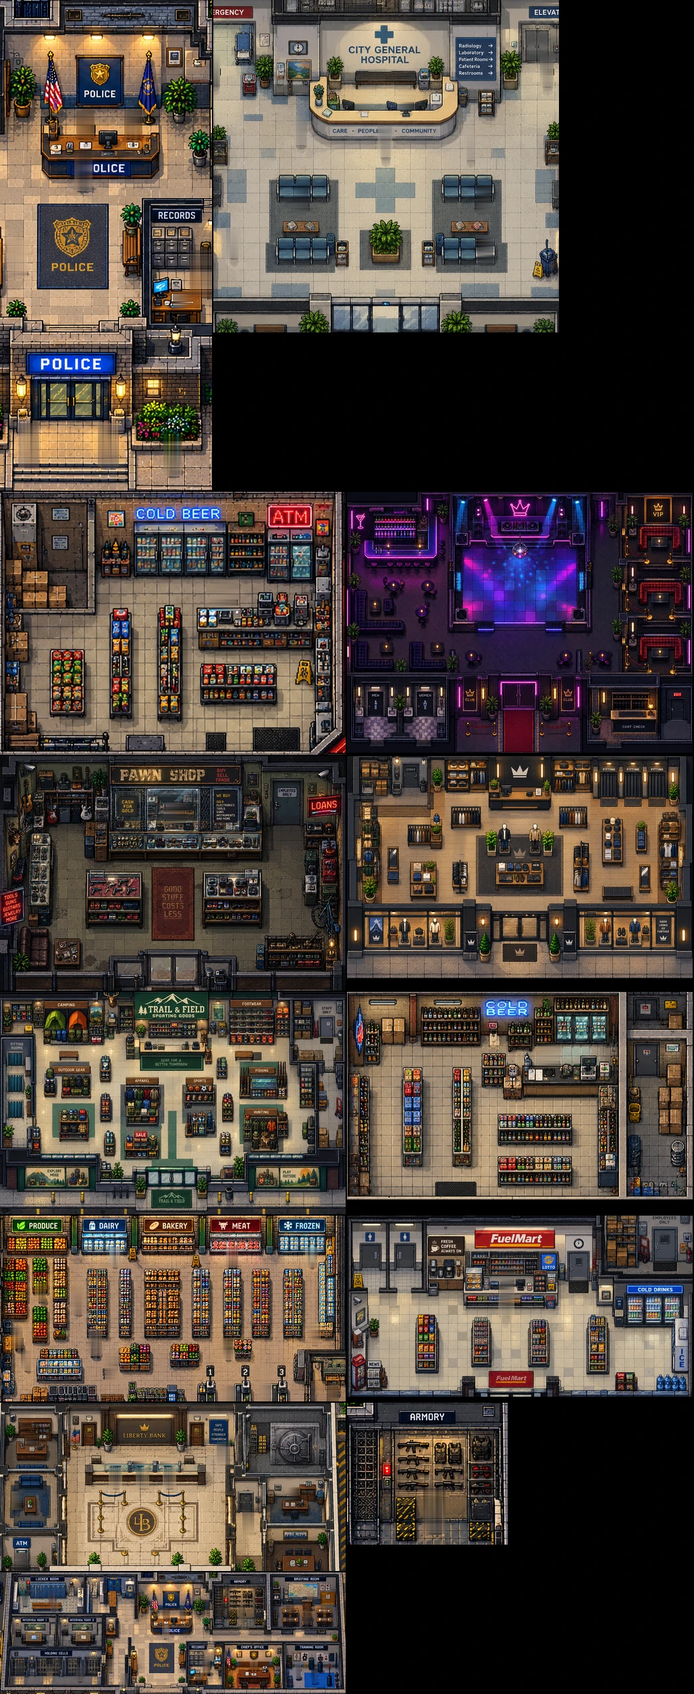
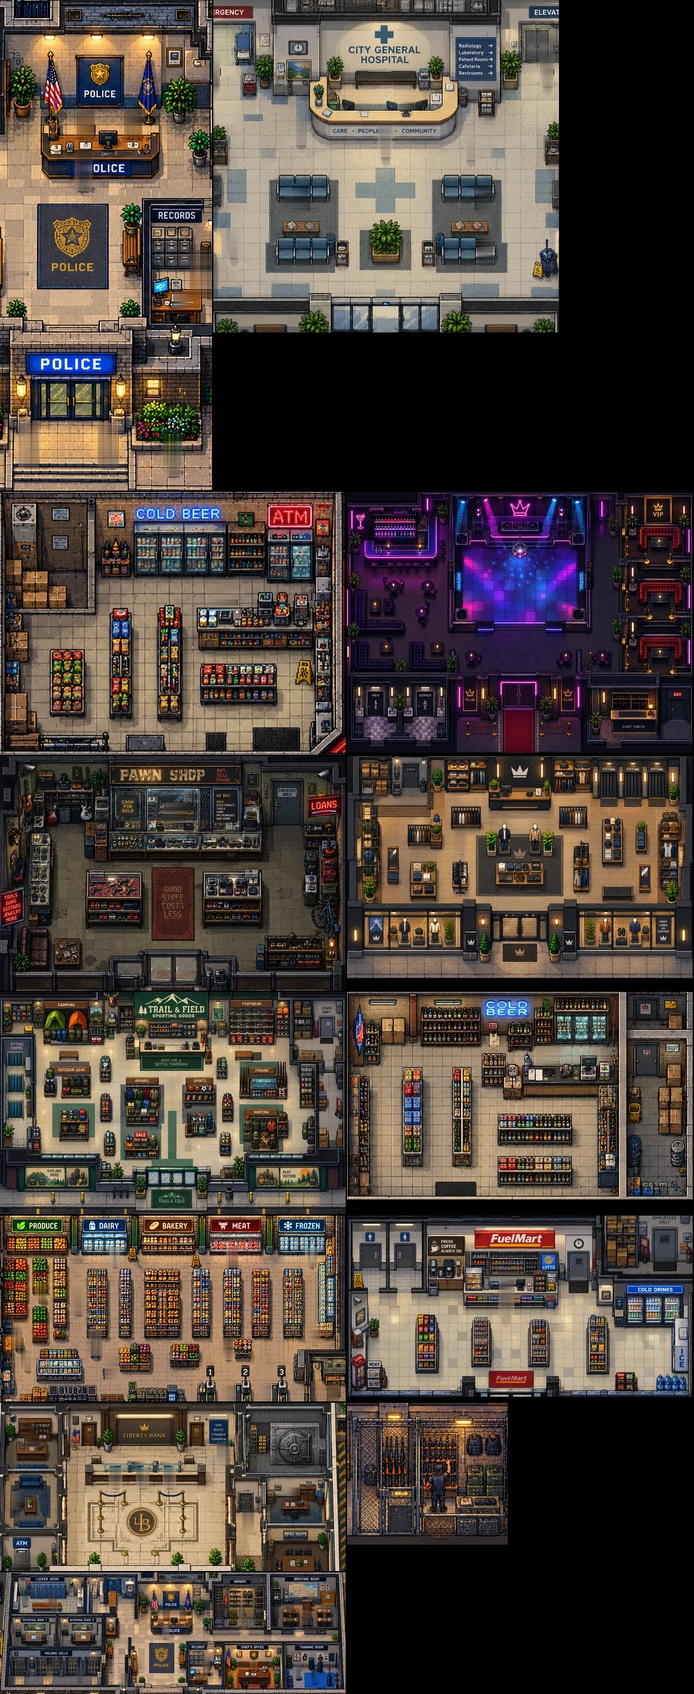
The hospital, the police station and the subway entrance built to the owner's B takes (IN1-B, IN2-B, SU5-B): lobbies with their desks, chairs, fittings and the armory cage; the ambulance bay canopy; the subway kiosk with its railings, globes, lit train sign and stairs going down; big walk-ins open a
Claude-Session: https://claude.ai/code/session_015TdwbASoLBxZr1VoEZGToX

Changed region(s): [[0.4981, 0.8089, 0.7471, 0.9334]]

diff --git a/client/art2/game/statics.js b/client/art2/game/statics.js
@@ -1245,6 +1245,8 @@ function voxModel(m, a) {
     case 'runwayLight': return RD.runwayLight(a[0]); case 'viewer': return D.viewer(); case 'wheelbarrow': return U.wheelbarrow(); case 'airliner': return RD.airliner(a[0], a[1], a[2], a[3] || 0);
     case 'lighthouse': return WL.lighthouse(a[0], a[1]); case 'pillar': return RD.pillar(a[0], a[1], a[2]); case 'canopy': return U.fuelCanopy(a[0], a[1], a[2], a[3]); case 'fuelPump': return U.fuelPump(a[0], a[1]);
     case 'platformCanopy': return RD.platformCanopy(a[0], a[1], a[2]); case 'stationEntrance': return RD.stationEntrance(a[0], a[1]); case 'crossingSignal': return RD.crossingSignal(a[0], a[1]);
+    case 'subwayKiosk': return RD.subwayKiosk(a[0], a[1]);   // (SU5-B: a subway stop's street entrance on its kiosk's footprint)
+    case 'erCanopy': return RD.erCanopy(a[0]);   // (IN1-B: the hospital's ambulance bay)
     case 'controlTower': return RD.controlTower(a[0], a[1]); case 'fence': return D.fence(a[0], a[1], a[2] || {}); case 'fenceKind': return K.fenceKind(a[0], a[1]); case 'gatePillar': return D.gatePillar(a[0], a[1]);
     case 'compoundWall': return TW.compoundWall(a[0], a[1], a[2]); case 'guardTower': return TW.guardTower(a[0], a[1]); case 'hedge': return P.hedge(a[0], a[1]); case 'volleyNet': return P.volleyNet(a[0]);
     case 'soccerGoal': return PK.soccerGoal(a[0], a[1], a[2]); case 'terrace': return U.terrace(a[0], a[1], a[2], a[3]); case 'hayBale': return U.hayBale(a[0]); case 'scarecrow': return U.scarecrow();
@@ -1304,6 +1306,7 @@ function vdim(m, a) {
     case 'solar': return [a[0] || 30, a[1] || 20, 8]; case 'runwayLight': return [4, 4, 6]; case 'viewer': return [14, 10, 40]; case 'wheelbarrow': return [30, 14, 14]; case 'airliner': return [a[0] || 460, a[1] || 420, 140];
     case 'lighthouse': return [48, 48, (a[0] || 140) + 36]; case 'pillar': return [(a[1] || 30) + 4, a[2] || 90, a[0] || 90]; case 'canopy': return [a[0] || 150, a[1] || 80, (a[2] || 52) + 10]; case 'fuelPump': return [12, 10, 34];
     case 'platformCanopy': return [a[0] || 200, a[1] || 40, 62]; case 'stationEntrance': return [70, 44, 54]; case 'crossingSignal': return [24, 8, 70]; case 'controlTower': return [70, 70, (a[0] || 220) + 50];
+    case 'subwayKiosk': return [128, 96, 64]; case 'erCanopy': return [120, 62, 60];
     case 'fence': return [a[1] || 60, 6, ({ picket: 16, wood: 30, chain: 32, iron: 28, stone: 12 }[a[0]] || 20) + 6]; case 'fenceKind': return [a[1] || 60, 6, 26]; case 'gatePillar': return [14, 14, (a[1] || 36) + 16];
     case 'compoundWall': return [a[0] || 80, 10, (a[1] || 40) + 8]; case 'guardTower': return [40, 40, (a[0] || 70) + 40]; case 'hedge': return [a[0] || 40, 10, (a[1] || 12) + 3]; case 'volleyNet': return [a[0] || 70, 4, 26];
     case 'soccerGoal': return [a[2] || 18, a[0] || 60, a[1] || 32]; case 'terrace': return [a[0] || 300, a[1] || 60, a[2] || 40]; case 'hayBale': return [24, 16, 16]; case 'scarecrow': return [30, 8, 56];
@@ -2297,7 +2300,16 @@ function addRail(c, I) {
   if (!R || !R.pts) return;
   for (const st of R.stations || []) {
     if (st.under) {
-      const p = st.kiosk ? { x: st.kiosk.x0 + st.kiosk.w / 2, y: st.kiosk.y0 + st.kiosk.h - 6 } : st.platform;
+      const k = st.kiosk;
+      if (k) {   // (SU5-B: the stairs down inside green iron railings, globe lamps and the lit train sign along the back)
+        const lx = (x) => (k.flip ? k.x0 + k.w - x : k.x0 + x);
+        put(I, vitem('sk:' + (k.flip ? 1 : 0), 'subwayKiosk', [1, k.flip ? 1 : 0], k.x0 + 64, k.y0 + 48, 0));
+        for (const x of [8, 120]) lightAt(I, lx(x), k.y0 + 16, 54, 110, [1, 0.86, 0.6], 1.6, 'lamp');
+        lightAt(I, lx(64), k.y0 + 20, 34, 70, [0.7, 0.85, 1], 1.1, 'sign');
+        lightAt(I, lx(104), k.y0 + 62, 6, 60, [1, 0.85, 0.6], 1.2, 'sign');
+        continue;
+      }
+      const p = st.platform;
       if (!p) continue;
       put(I, vitem('ent', 'stationEntrance', [1, '#f28c28'], p.x, p.y, 0));
       lightAt(I, p.x, p.y + 10, 50, 120, [1, 0.85, 0.6], 1.4, 'sign');
@@ -2627,7 +2639,7 @@ function addLots(c, I) {
       return;
     }
     if (key === 'church') { for (const dx of [24, w - 24]) put(I, fitem(`f:cypress:${dx > w / 2 ? 1 : 0}:1.2`, 'cypress', 1000 + (dx > w / 2 ? 1 : 0) * 37 + 49, x0 + dx, y0 + h - 30, 1.2)); fenceLine(I, 'iron', x0 + 8, y0 + h - 6, x0 + w / 2 - 30, y0 + h - 6); fenceLine(I, 'iron', x0 + w / 2 + 30, y0 + h - 6, x0 + w - 8, y0 + h - 6); return; }
-    if (key === 'hospital') { put(I, vitem('hcan', 'canopy', [110, 50, 50, 1], x0 + w / 2, by1 + 30, 0)); return; }
+    if (key === 'hospital') { put(I, vitem('hcan:er', 'erCanopy', [1], x0 + w / 2, by1 + 30, 0)); lightAt(I, x0 + w / 2, by1 + 34, 46, 130, [1, 0.92, 0.82], 1.4, 'lamp'); return; }   // (IN1-B: the ambulance bay's canopy)
     if (key === 'pool') {
       const pw = w - 5 * TILE - 40, ph = h - 70;
       if (pw > 60) { put(I, { key: `pool:${pw}:${ph}:0`, recipe: { t: 'flat', k: 'pool', w: pw, h: ph, s: 0 }, x: x0 + 5 * TILE + 20 + pw / 2, y: y0 + 30 + ph / 2, ext: [pw / 2 + 2, ph / 2 + 4, pw / 2 + 2, ph / 2 + 2] }); for (let k = 0; k < 4; k++) put(I, vitem('loung', 'lounger', ['#f0eee8'], x0 + 5 * TILE + 40 + k * 44, y0 + h - 18, 0)); }
@@ -2887,12 +2899,13 @@ function cutRecipe(c, b, s, spec) {
     if (ux1 < ux0) continue;
     const blk = u.cells !== undefined && c.M.cellBlocks ? c.M.cellBlocks[u.cells] : null, ox = s.tx * TILE, oy = s.ty * TILE;   // (a police station's cells: shared/cells.js)
     const cells = blk ? { bars: blk.bars.map((q) => [q[0] - ox, q[1] - oy, q[2] - ox, q[3] - oy]), cells: blk.cells.map((q) => ({ door: [q.door.x - ox, q.door.y - oy], bench: [q.bench.x - ox, q.bench.y - oy], toilet: [q.toilet.x - ox, q.toilet.y - oy] })), dir: blk.south ? 1 : -1, back: (blk.south ? blk.y0 : blk.y1) - oy } : null;
-    units.push({ x0: (ux0 - s.tx) * TILE, x1: (ux1 - s.tx + 1) * TILE, cy: (u.counterRow - s.ty) * TILE, kind: u.kind, dx: (u.door.tx - s.tx) * TILE, dw: (u.door.w || 2) * TILE, cells });
+    units.push({ x0: (ux0 - s.tx) * TILE, x1: (ux1 - s.tx + 1) * TILE, fx0: (u.x0 - s.tx) * TILE, fx1: (u.x1 - s.tx + 1) * TILE, cy: (u.counterRow - s.ty) * TILE, kind: u.kind, dx: (u.door.tx - s.tx) * TILE, dw: (u.door.w || 2) * TILE, cells });
   }
   // a wing with no room you walk into (a hospital's wards): its floor all across, walls cut low round it
   const inY0 = Math.max(32, Math.min(Dd - 64, (wi.y0 - s.ty) * TILE)), inY1 = Math.max(inY0 + 32, Math.min(Dd - 32, (wi.y1 - s.ty + 1) * TILE));
   const wing = units.length ? null : FLOORK[(wi.units[0] || {}).kind] || 'tileWhite';
-  return { t: 'cut', w: W, d: Dd, H: Math.min(buildingH(spec), 120), wall: spec.style || 'stucco', wallColor: spec.wallColor || null, seed: spec.seed, units, inY0: wing ? inY0 : (wi.y0 - s.ty) * TILE, inY1: wing ? inY1 : (wi.y1 - s.ty + 1) * TILE, wing };
+  // (ew / ee: the section has the building's west / east wall - a big walk-in is drawn in sections, open to each other)
+  return { t: 'cut', w: W, d: Dd, H: Math.min(buildingH(spec), 120), wall: spec.style || 'stucco', wallColor: spec.wallColor || null, seed: spec.seed, units, inY0: wing ? inY0 : (wi.y0 - s.ty) * TILE, inY1: wing ? inY1 : (wi.y1 - s.ty + 1) * TILE, wing, ew: s.tx <= b.tx, ee: s.tx + s.tw >= b.tx + b.tw };
 }
 function makeCut(r) {
   const { w, d, H } = r, CUT = 18, G = new GBuf(w, d + H + 8); G.ax = 0; G.ay = d + H + 8;
@@ -2902,29 +2915,33 @@ function makeCut(r) {
   const px = (x, Y, z, c, n, f = 0) => zw(G, x, gy(Y, z), c, n, z, f);
   // floor (a wing's all across it)
   for (const u of r.units) {
-    const fk = FLOORK[u.kind] || 'woodFloor';
-    for (let Y = r.inY0; Y < r.inY1; Y++) for (let x = u.x0; x < u.x1; x++) px(x, Y, 0, groundPixel(fk, x + r.seed, Y, 3).c, [0, 0, 1], F_GROUND);
+    const fk = FLOORK[u.kind] || 'woodFloor', lob = LOBBY[u.kind];
+    for (let Y = r.inY0; Y < r.inY1; Y++) for (let x = u.x0; x < u.x1; x++) px(x, Y, 0, lob ? lob.floor(x + r.seed, Y) : groundPixel(fk, x + r.seed, Y, 3).c, [0, 0, 1], F_GROUND);
   }
   if (r.wing) for (let Y = r.inY0; Y < r.inY1; Y++) for (let x = 0; x < w; x++) px(x, Y, 0, groundPixel(r.wing, x + r.seed, Y, 3).c, [0, 0, 1], F_GROUND);
   // the back wall: full height, its face toward the camera, its top a cap
   for (let x = 0; x < w; x++) {
-    for (let v = 0; v < H; v++) px(x, r.inY0, v, wallAt(x, v), [0, 1, 0]);
+    const lu = r.units.find((u) => LOBBY[u.kind] && x >= u.x0 && x < u.x1);   // (IN1-B / IN2-B: the lobby's own wall)
+    for (let v = 0; v < H; v++) px(x, r.inY0, v, lu ? LOBBY[lu.kind].wall(x, v) : wallAt(x, v), [0, 1, 0]);
     for (let Y = 0; Y < r.inY0; Y++) px(x, Y, H, CAP[Y === 0 ? 4 : 2], [0, 0, 1]);
   }
   // side walls and unit dividers cut low (caps), the front wall cut low with the doorways open
   const capRun = (xa, xb, Ya, Yb) => { for (let Y = Ya; Y < Yb; Y++) for (let x = xa; x < xb; x++) px(x, Y, CUT, CAP[x === xa || x === xb - 1 ? 3 : 2], [0, 0, 1]); for (let x = xa; x < xb; x++) for (let v = 0; v < CUT; v++) px(x, Yb, v, wallAt(x + 400, v), [0, 1, 0]); };
-  capRun(0, 32, r.inY0, d); capRun(w - 32, w, r.inY0, d);
+  if (r.ew !== false) capRun(0, 32, r.inY0, d);
+  if (r.ee !== false) capRun(w - 32, w, r.inY0, d);
   for (let i = 1; i < r.units.length; i++) { const x = r.units[i].x0 - 4; capRun(x, x + 8, r.inY0, r.inY1); }
-  for (let x = 32; x < w - 32; x++) {
+  for (let x = r.ew === false ? 0 : 32; x < (r.ee === false ? w : w - 32); x++) {
     if (r.units.some((u) => x >= u.dx && x < u.dx + u.dw)) continue;
     for (let Y = r.inY1; Y < d; Y++) px(x, Y, CUT, CAP[2], [0, 0, 1]);
     for (let v = 0; v < CUT; v++) px(x, d, v, wallAt(x + 800, v), [0, 1, 0]);
   }
   // counters, back shelves with goods, a clerk's till
   for (const u of r.units) {
+    if (LOBBY[u.kind]) { lobbyRoom(u, r, px); if (u.cells) cellRoom(u.cells, px); continue; }   // (IN1-B hospital / IN2-B police: their own desk and dressing)
     const CT = u.kind === 'coffee' || u.kind === 'club' || u.kind === 'fence' || u.kind === 'roadhouse' ? ramp('#6a4a30', 6, 3) : ramp('#d8d4cc', 6, 3), TOPC = u.kind === 'club' ? ramp('#2a2a34', 5, 2) : u.kind === 'roadhouse' ? ramp('#4a3020', 5, 2) : ramp('#a8aab0', 5, 2);
-    for (let Y = u.cy + 6; Y < u.cy + 26; Y++) for (let x = u.x0 + 6; x < u.x1 - (u.x1 - u.x0 > 128 ? 34 : 6); x++) px(x, Y, 22, TOPC[Y === u.cy + 6 ? 4 : 2], [0, 0, 1]);
-    for (let x = u.x0 + 6; x < u.x1 - (u.x1 - u.x0 > 128 ? 34 : 6); x++) for (let v = 0; v < 22; v++) px(x, u.cy + 26, v, CT[v > 18 ? 4 : 2 + ((x >> 3) & 1)], [0, 1, 0]);
+    const ca = u.x0 > u.fx0 ? u.x0 : u.x0 + 6, cb = u.x1 < u.fx1 ? u.x1 : u.x1 - (u.fx1 - u.fx0 > 128 ? 34 : 6);   // (the counter runs on across a section's open side)
+    for (let Y = u.cy + 6; Y < u.cy + 26; Y++) for (let x = ca; x < cb; x++) px(x, Y, 22, TOPC[Y === u.cy + 6 ? 4 : 2], [0, 0, 1]);
+    for (let x = ca; x < cb; x++) for (let v = 0; v < 22; v++) px(x, u.cy + 26, v, CT[v > 18 ? 4 : 2 + ((x >> 3) & 1)], [0, 1, 0]);
     if (u.cells) { cellRoom(u.cells, px); continue; }   // (the cells along the back: no shelves)
     const goods = [[204, 72, 64], [236, 200, 80], [76, 146, 204], [116, 180, 100], [226, 224, 214], [170, 100, 200]];
     for (let x = u.x0 + 4; x < u.x1 - 4; x++) for (let v = 0; v < 52; v++) { const sh = v % 13; px(x, r.inY0 + 10, v, sh < 2 ? MAT.metalDark[2] : goods[Math.floor(hash(x >> 1, v / 13 | 0, r.seed + u.x0) * goods.length)], [0, 1, 0]); }
@@ -2972,6 +2989,136 @@ function cellRoom(k, px0_) {
     for (const s of [-17, -16, 16, 17]) for (let v = 0; v < H + 2; v++) px(dx + s, dy, v, BAR[s < 0 ? 1 : 3], [0, 1, 0]);
     for (let x = dx + 10; x < dx + 15; x++) for (let v = 14; v < 22; v++) px(x, dy, v, v === 14 || v === 21 ? [60, 58, 50] : [150, 140, 96], [0, 1, 0]);
   }
+}
+// ---- the hospital's and the police station's lobbies, built to IN1-B and IN2-B (the owner's picks, 2026-10-10): the
+// floor and the back wall in their own materials, the desk, and the fittings - all art over the server's layout (the
+// counter row, the doorway, the cells stay where shared/map.js and shared/cells.js put them)
+const LOBBY = {
+  hospital: {   // white tile with a soft sheen; white wall tile with a blue band and a dark skirting
+    floor: (x, Y) => {
+      if ((x & 15) === 0 || (Y & 15) === 0) return [198, 202, 206];
+      const b = 226 + ((hash(x >> 4, Y >> 4, 77) * 7) | 0), s = Math.max(0, Math.cos((x * 0.7 + Y) / 38) - 0.55) * 22;
+      return [Math.min(255, b + s), Math.min(255, b + 2 + s), Math.min(255, b + 3 + s)];
+    },
+    wall: (x, v) => (v < 3 ? [92, 106, 128] : v >= 18 && v < 23 ? [58, 106, 168] : v === 17 || v === 23 ? [206, 214, 222] : (x % 8 === 0 || v % 8 === 0) ? [204, 208, 210] : [234 + ((hash(x >> 3, v >> 3, 78) * 5) | 0), 236, 234]),
+  },
+  police: {     // pale stone tile in the lobby; grey block walls round the cells
+    floor: (x, Y) => {
+      if ((x & 15) === 0 || (Y & 15) === 0) return [164, 156, 140];
+      const b = (hash(x >> 4, Y >> 4, 79) * 12) | 0;
+      return [192 + b, 184 + b, 166 + b];
+    },
+    wall: (x, v) => (v < 3 ? [70, 72, 78] : (v % 8 === 0 || (x + ((v >> 3) & 1) * 8) % 16 === 0) ? [116, 116, 114] : [150 + ((hash(x >> 4, v >> 3, 80) * 8) | 0), 150, 146]),
+  },
+};
+function lobbyRoom(u, r, px0_) {
+  const px = (x, Y, z, c, n) => px0_(Math.round(x), Math.round(Y), z, c, n);
+  const slab = (x0, x1, Y0, Y1, z, top, side, z0 = 0) => {
+    x0 = Math.round(x0); x1 = Math.round(x1); Y0 = Math.round(Y0); Y1 = Math.round(Y1);
+    for (let Y = Y0; Y < Y1; Y++) for (let x = x0; x < x1; x++) px(x, Y, z, top[Y === Y0 || x === x0 || x === x1 - 1 ? 4 : 2], [0, 0, 1]);
+    for (let x = x0; x < x1; x++) for (let v = z0; v < z; v++) px(x, Y1, v, side[v > z - 3 ? 3 : 1 + ((x - x0) % 6 === 0 ? 0 : 1)], [0, 1, 0]);
+  };
+  const onWall = (x0, x1, v0, v1, f) => { for (let x = Math.round(x0); x < Math.round(x1); x++) for (let v = v0; v < v1; v++) { const c = f(x - Math.round(x0), v - v0, x1 - x0, v1 - v0); if (c) px(x, r.inY0, v, c, [0, 1, 0]); } };
+  const plant = (x, Y, big = 1) => {   // a terracotta pot, a leafy top
+    slab(x - 5 * big, x + 5 * big, Y - 4, Y + 4, 9, ramp('#b0603c', 5, 2), ramp('#9a5030', 5, 2));
+    for (let k = 0; k < 140 * big; k++) { const a = hash(k, x, 81) * 6.283, d = Math.sqrt(hash(k, Y, 82)) * 8 * big, z = 9 + hash(k, 3, 83) * 15 * big * (1 - d / (10 * big)); px(x + Math.cos(a) * d, Y - 2 + Math.sin(a) * d * 0.6, Math.round(z), [[52, 120, 58], [78, 156, 70], [40, 96, 48], [100, 176, 84]][k & 3], [Math.cos(a) * 0.5, -0.4, 0.75]); }
+  };
+  const chairs = (x0, n, Y, col = '#3a62a8') => {   // a row of linked waiting chairs facing the desk (backs to the door)
+    const seat = ramp(col, 5, 2), back = ramp(col, 5, 1), leg = ramp('#7a7e86', 5, 2);
+    for (let i = 0; i < n; i++) { const x = x0 + i * 13; slab(x, x + 11, Y, Y + 10, 9, seat, leg); slab(x, x + 11, Y + 10, Y + 13, 19, back, back, 9); }
+    slab(x0 - 2, x0 + n * 13, Y + 4, Y + 6, 5, leg, leg);
+  };
+  const cooler = (x, Y) => { slab(x, x + 10, Y, Y + 8, 22, ramp('#e2e4e6', 5, 3), ramp('#c8ccd2', 5, 3)); for (let v = 22; v < 31; v++) for (let xx = x + 2; xx < x + 8; xx++) px(xx, Y + 4, v, v > 28 ? [60, 110, 190] : [110, 170, 230], [0, 1, 0]); };
+  const mat = (cx, Y, w = 40, h = 14) => { for (let yy = Y; yy < Y + h; yy++) for (let x = cx - w / 2; x < cx + w / 2; x++) px(x, yy, 1, (x + yy) % 3 ? [58, 66, 80] : [70, 78, 92], [0, 0, 1]); };
+  // laid out over the whole unit (a big one is drawn in sections: each draws its share, the rest falls off its edges)
+  const X0 = u.fx0, X1u = u.fx1, W = X1u - X0, dc = u.dx + u.dw / 2, gapR = X1u - (W > 128 ? 34 : 6), fy = r.inY1;
+  const lo = X0 + 6;
+  if (u.kind === 'hospital') {
+    // the back wall: the vending machine and the water cooler, the red double doors to the back, the pharmacy window
+    // with its shelves under a green cross, the lifts
+    const at = (f) => X0 + Math.round(W * f);
+    onWall(at(0.47) - 24, at(0.47) + 24, 0, 58, (x, v, w) => (x < 2 || x >= w - 2 || v >= 54 ? [118, 122, 130] : Math.abs(x - w / 2) < 1 ? [90, 30, 30] : v > 36 && v < 46 && (x % 23 > 6 && x % 23 < 17) ? [160, 196, 214] : v > 22 && v < 25 ? [214, 214, 218] : [196 - (v & 1) * 6, 52, 48]));
+    onWall(at(0.47) - 8, at(0.47) + 8, 60, 66, (x, v) => (v === 0 || v === 5 ? [40, 44, 40] : [64, 200, 110]));
+    onWall(at(0.68) - 30, at(0.68) + 30, 14, 50, (x, v, w, h) => (x < 2 || x >= w - 2 || v < 2 || v >= h - 2 ? [120, 128, 136] : v % 11 < 2 ? [150, 156, 162] : [[204, 72, 64], [236, 200, 80], [76, 146, 204], [116, 180, 100], [236, 234, 228], [170, 120, 200]][(hash(x >> 1, v / 11 | 0, 84) * 6) | 0]));
+    onWall(at(0.68) - 5, at(0.68) + 5, 54, 64, (x, v) => ((x > 2 && x < 7) || (v > 2 && v < 7) ? [50, 170, 90] : [236, 240, 236]));
+    slab(at(0.68) - 32, at(0.68) + 32, r.inY0, r.inY0 + 8, 14, ramp('#e8e6e0', 5, 3), ramp('#b8bcc4', 5, 2));
+    for (const f of [0.86, 0.94]) if (at(f) + 18 < X1u - 8) {
+      onWall(at(f) - 15, at(f) + 15, 0, 56, (x, v, w) => (x < 2 || x >= w - 2 || v >= 52 ? [104, 110, 118] : Math.abs(x - w / 2) < 1 ? [120, 124, 132] : [176 + (x % 5 === 0 ? 8 : 0), 182, 190]));
+      onWall(at(f) - 3, at(f) + 3, 58, 61, () => [255, 190, 90]);
+    }
+    const vx = at(0.12), cx2 = at(0.2);
+    slab(vx, vx + 20, r.inY0, r.inY0 + 12, 46, ramp('#2a2e38', 5, 2), ramp('#3a3e4a', 5, 2));
+    for (let x = vx + 3; x < vx + 15; x++) for (let v = 16; v < 42; v++) px(x, r.inY0 + 12, v, v % 7 < 1 ? [40, 44, 52] : [[230, 80, 70], [240, 200, 80], [90, 170, 230], [120, 200, 110]][((x >> 2) + (v / 7 | 0)) & 3], [0, 1, 0]);
+    cooler(cx2, r.inY0 + 2);
+    plant(X0 + 16, r.inY0 + 14, 1.3); plant(at(0.36), r.inY0 + 12, 1.1); plant(X1u - 16, r.inY0 + 14, 1.3);
+    // the desk: a long white top over a wood front with a blue stripe, its middle curving out toward the lobby
+    const mid = (lo + gapR) / 2, half = (gapR - lo) / 2, bulge = (x) => Math.round(Math.max(0, Math.cos(Math.min(1, Math.abs(x - mid) / (half * 0.55)) * Math.PI / 2)) * 7);
+    const TOP = ramp('#ecebe6', 5, 3), WOOD = ramp('#a07650', 6, 3);
+    for (let x = lo; x < gapR; x++) {
+      const yf = u.cy + 26 + bulge(x);
+      for (let Y = u.cy + 6; Y < yf; Y++) px(x, Y, 22, TOP[Y === u.cy + 6 || Y === yf - 1 ? 4 : 2], [0, 0, 1]);
+      for (let v = 0; v < 22; v++) px(x, yf, v, v > 19 ? TOP[3] : v > 13 && v < 16 ? [58, 106, 168] : v < 2 ? [70, 52, 40] : (x - lo) % 32 === 0 ? WOOD[1] : WOOD[v > 8 ? 3 : 2], [0, 1, 0]);
+    }
+    for (const f of [0.38, 0.6]) { const x = lo + (gapR - lo) * f; slab(x, x + 9, u.cy + 9, u.cy + 12, 32, ramp('#2a2e36', 5, 2), ramp('#3a4a62', 5, 2), 22); }
+    for (let k = 0; k < 6; k++) px(lo + 20 + k * 3, u.cy + 14, 23, [244, 244, 240], [0, 0, 1]);
+    plant(lo + (gapR - lo) * 0.22, u.cy + 14, 0.7);
+    // the waiting area: rows of blue chairs either side of the aisle from the doors, plants, mats at the door and the desk
+    const Ya = u.cy + 70, Yb = fy - 44;
+    for (let Y = Yb - 13, row = 0; Y >= Ya && row < 3; Y -= 46, row++) for (const side of [-1, 1]) {
+      const room = side < 0 ? dc - 48 - (X0 + 40) : X1u - 40 - (dc + 48), n = Math.max(0, Math.min(5, Math.floor(room / 13)));
+      if (n >= 2) for (let g = 0; g < (room > 190 ? 2 : 1); g++) chairs(side < 0 ? dc - 48 - n * 13 - g * (n * 13 + 30) : dc + 48 + g * (n * 13 + 30), n, Y);
+    }
+    plant(dc - 36, fy - 30, 1.1); plant(dc + 36, fy - 30, 1.1); plant(X1u - 22, fy - 32, 1.3); plant(X0 + 22, fy - 32, 1.3);
+    mat(dc, fy - 44, 44, 16); mat(mid, u.cy + 44, 50, 12);
+    return;
+  }
+  // police: the front desk in wood with the officer's computer, the flag beside it; the clock, the notice board and the
+  // shield on the wall above the cells; blue chairs either side of the doors, a water cooler, plants; the armory cage
+  // in the officers' corner at the east end of the cells, rifles racked on its back wall, vests and ammo cases
+  const TOP = ramp('#8a6040', 5, 3), FRONT = ramp('#6a4a32', 6, 3);
+  for (let x = lo; x < gapR; x++) {
+    for (let Y = u.cy + 6; Y < u.cy + 26; Y++) px(x, Y, 22, TOP[Y === u.cy + 6 || Y === u.cy + 25 ? 4 : 2], [0, 0, 1]);
+    for (let v = 0; v < 22; v++) px(x, u.cy + 26, v, v > 19 ? TOP[4] : v < 2 ? [40, 30, 24] : (x - lo) % 24 === 0 ? FRONT[1] : FRONT[2 + (v > 10 ? 1 : 0)], [0, 1, 0]);
+  }
+  const mx = (lo + gapR) / 2;
+  slab(mx - 4, mx + 6, u.cy + 9, u.cy + 12, 32, ramp('#22262e', 5, 2), ramp('#3a4a66', 5, 2), 22);
+  slab(mx + 12, mx + 22, u.cy + 12, u.cy + 18, 25, ramp('#d8d6d0', 5, 3), ramp('#b8b6b0', 5, 2), 22);
+  for (let k = 0; k < 5; k++) px(mx - 20 + k * 3, u.cy + 15, 23, [240, 238, 230], [0, 0, 1]);
+  plant(lo + 18, u.cy + 14, 0.6);
+  // the flag on its stand, past the desk's west end
+  const fx = Math.max(X0 + 14, lo - 2), fY = u.cy + 40;
+  for (let v = 0; v < 52; v++) px(fx, fY, v, v > 49 ? [230, 200, 90] : [200, 176, 96], [1, 0, 0]);
+  slab(fx - 3, fx + 4, fY - 2, fY + 2, 2, ramp('#c8a860', 5, 3), ramp('#a88840', 5, 2));
+  for (let x = fx + 1; x < fx + 17; x++) for (let v = 30; v < 48; v++) px(x, fY, v, x < fx + 8 && v > 39 ? ((x + v) % 3 ? [40, 60, 140] : [230, 230, 236]) : ((v >> 1) & 1) ? [200, 40, 44] : [236, 234, 228], [0, 1, 0]);
+  // the wall above the cells: the notice board, the clock, the shield
+  const k = u.cells, wx = (f) => X0 + Math.round(W * f);
+  if (!k || k.dir > 0) {
+    onWall(wx(0.3) - 26, wx(0.3) + 26, 42, 62, (x, v, w, h) => (x < 2 || x >= w - 2 || v < 2 || v >= h - 2 ? [96, 70, 44] : (hash(x >> 3, v >> 2, 85) > 0.55 ? [[240, 238, 228], [250, 236, 160], [200, 222, 240]][(x >> 3) % 3] : [176, 130, 86])));
+    onWall(wx(0.52) - 7, wx(0.52) + 7, 46, 60, (x, v) => { const d = Math.hypot(x - 6.5, v - 6.5); return d > 7 ? null : d > 5.6 ? [40, 40, 44] : (Math.abs(x - 6.5) < 0.8 && v >= 6 && v < 11) || (Math.abs(v - 6.5) < 0.8 && x >= 6 && x < 10) ? [30, 30, 34] : [240, 240, 232]; });
+    onWall(wx(0.7) - 7, wx(0.7) + 7, 44, 62, (x, v) => { const e = Math.abs(x - 6.5), top = v > 9 ? e < 6.5 : e < 6.5 - (9 - v) * 0.7; return !top ? null : e > 5 || v > 15 || v < 3 ? [214, 176, 70] : [40, 66, 140]; });
+  }
+  // the armory: the officers' corner east of the last cell - a mesh cage along the cells' bar line, a rack of rifles,
+  // vests and green ammo cases inside
+  if (k && k.dir > 0 && k.bars.length) {
+    const ex = Math.max(...k.bars.map((q) => Math.max(q[0], q[2]))), X1 = X1u - 8, yb = (k.bars.find((q) => q[1] === q[3]) || k.bars[0])[1];
+    if (X1 - ex > 40) {
+      onWall(ex + 6, X1 - 4, 8, 46, (x, v, w) => (v === 0 || v === 37 || v === 18 ? [70, 62, 52] : x % 7 === 3 && v > 2 && v < 17 ? [40, 40, 44] : x % 7 === 3 && v > 19 && v < 36 ? [44, 44, 48] : x % 7 === 4 && (v < 8 || (v > 20 && v < 26)) ? [110, 76, 44] : null));
+      for (let x = ex + 8; x < X1 - 12; x += 16) slab(x, x + 12, r.inY0 + 2, r.inY0 + 10, 9, ramp('#5a6a44', 5, 2), ramp('#4a5a38', 5, 2));
+      for (let x = ex + 10; x < X1 - 10; x += 22) onWall(x, x + 10, 24, 40, (xx, v) => (v > 12 && (xx < 3 || xx > 6) ? null : [30, 40, 62]));
+      for (let x = ex + 2; x < X1; x++) {
+        const post = (x - ex) % 24 === 2, door = x > X1 - 30 && x < X1 - 8;
+        for (let v = 0; v < 40; v++) if (post || v === 39 || v === 38 || (!door && (x + v) % 4 === 0) || (door && (x === X1 - 29 || x === X1 - 9 || v === 20))) px(x, yb, v, post || v > 37 ? [90, 94, 100] : [140, 146, 152], [0, 1, 0]);
+      }
+    }
+  }
+  // the lobby: chairs either side of the doors along the front wall, the water cooler, plants, the mat
+  const Ya = u.cy + 76, Yb = fy - 44;
+  for (let Y = Yb - 13, row = 0; Y >= Ya && row < 2; Y -= 50, row++) for (const side of [-1, 1]) {
+    const room = side < 0 ? dc - 44 - (X0 + 44) : X1u - 44 - (dc + 44), n = Math.max(0, Math.min(4, Math.floor(room / 13)));
+    if (n >= 2) for (let g = 0; g < Math.min(3, Math.floor((room + 30) / (n * 13 + 30))); g++) chairs(side < 0 ? dc - 44 - n * 13 - g * (n * 13 + 30) : dc + 44 + g * (n * 13 + 30), n, Y);
+  }
+  cooler(X0 + 12, fy - 80); plant(X0 + 22, fy - 32, 1.3); plant(X1u - 22, fy - 32, 1.3); plant(dc - 34, fy - 30, 1); plant(dc + 34, fy - 30, 1);
+  mat(dc, fy - 44, 44, 16);
 }
 // ---- the Rusty Spur's bar room (MC4, task #366): along the floor in front of the bar, left to right - the booths by the
 // wall, the jukebox, the pool table, the arm-wrestling table with its two stools, and the card room behind a low partition

diff --git a/client/art2/props-road.js b/client/art2/props-road.js
@@ -230,3 +230,58 @@ export function wallLamp(on = 0, h = 46) {
   m.ell(4, 9, h - 3, 3.6, 3.2, 2.4, sh); m.box(2, 8, h - 6, 6, 11, h - 4, bulb);
   return m;
 }
+// a subway stop's street entrance, built to SU5-B (the owner's pick, 2026-10-10) on the kiosk's real footprint
+// (shared/map.js SUBWAY_ART: 128 x 95, the stair mouth on the left, the pit [10, 43]-[114, 81] going down to the right;
+// flip mirrors it): green iron railings round the stairwell with ball-topped newels at the mouth, the steps going down
+// into the dark with a lit nosing on each, the tiled walls (white, a green band) and the warm-lit landing at the foot -
+// the platform below - and along the back a green frame with two globe lamps and a lit sign with the train symbol
+export function subwayKiosk(on = 1, flip = 0) {
+  const W = 128, Dd = 96, m = new Vox(W, Dd, 64);
+  const ir = m.mat({ ramp: R('#173628'), k: 2, flag: F_THIN }), irL = m.mat({ ramp: R('#1f4434'), k: 2 });
+  const steps = [];
+  for (let i = 0; i < 9; i++) { const t = Math.sqrt(i / 8), c = [Math.round(132 - 122 * t), Math.round(126 - 117 * t), Math.round(118 - 108 * t)]; steps.push(m.mat({ ramp: R('#' + c.map((v) => v.toString(16).padStart(2, '0')).join('')), k: 3 })); }
+  const nose = m.mat({ ramp: R('#d8c890'), k: 3, emi: [255, 214, 140, 30 + on * 60] }), tileW = m.mat({ ramp: R('#e4e6e0'), k: 3, shade: (x, y) => (Math.round(x) % 6 === 0 ? -0.8 : 0) });
+  const band = m.mat({ ramp: R('#2e7a5a'), k: 3 }), cap = m.mat({ ramp: R('#8e8a82'), k: 3 });
+  const land = m.mat({ ramp: R('#d8c49a', 5, 3), k: 3, emi: [255, 210, 140, 40 + on * 90], shade: (x, y) => (Math.round(x) % 6 === 0 || Math.round(y) % 6 === 0 ? -0.8 : 0) });
+  const globe = m.mat({ ramp: R('#fff2c8', 5, 3), k: 4, emi: [255, 226, 160, 80 + on * 175], flag: F_NOCAST });
+  const signBg = m.mat({ ramp: R('#162036'), k: 3, emi: [60, 90, 160, 20 + on * 60] }), signW = m.mat({ ramp: R('#f4f8ff', 5, 3), k: 4, emi: [200, 230, 255, 120 + on * 135], flag: F_NOCAST });
+  // the stairwell: a concrete lip, the tiled walls (seen as the strip just inside each lip), the steps, the landing
+  const [px0, py0, px1, py1] = [10, 43, 114, 81];
+  m.box(px0 - 2, py0 - 3, 0, px1 + 3, py0, 2, cap); m.box(px0 - 2, py1, 0, px1 + 3, py1 + 3, 2, cap); m.box(px1, py0, 0, px1 + 3, py1, 2, cap);
+  m.box(px0, py0, 0, px1, py0 + 4, 1, tileW); m.box(px0, py0 + 4, 0, px1, py0 + 6, 1, band);
+  for (let x = px0; x < px1 - 14; x++) { const s = Math.floor((x - px0) / 7), k = Math.min(8, Math.floor(s * 8 / 13)); m.box(x, py0 + 6, 0, x + 1, py1 - 2, 1, (x - px0) % 7 === 0 ? (k < 5 ? nose : steps[Math.min(8, k + 1)]) : steps[k]); }
+  m.box(px1 - 14, py0 + 6, 0, px1, py1 - 2, 1, land); m.box(px0, py1 - 2, 0, px1, py1, 1, band);
+  // railings: posts every 6 px, a top rail and a middle rail, both long sides and the far end; newels with balls at the mouth
+  for (const y of [36, 87]) { m.box(4, y, 20, 124, y + 2, 23, irL); m.box(4, y, 10, 124, y + 1, 11, ir); for (let x = 4; x < 124; x += 6) m.box(x, y, 0, x + 1, y + 1, 21, ir); }
+  m.box(121, 36, 20, 124, 89, 23, irL); for (let y = 36; y < 89; y += 6) m.box(121, y, 0, 122, y + 1, 21, ir);
+  for (const y of [35, 86]) { m.box(3, y, 0, 7, y + 4, 26, irL); m.ell(5, y + 2, 28, 2.6, 2.6, 2.6, irL); }
+  // the back: a green frame with the lit sign (its face toward the street) and a globe lamp at either end
+  m.box(4, 14, 0, 124, 18, 4, cap);
+  for (const x of [8, 120]) { m.box(x - 2, 14, 0, x + 2, 18, 50, ir); m.box(x - 3, 13, 0, x + 3, 19, 6, irL); m.ell(x, 16, 54, 4.5, 4.5, 4.5, globe); m.box(x - 2, 14, 48, x + 2, 18, 50, irL); }
+  m.box(10, 14, 44, 118, 18, 46, ir); m.box(10, 14, 22, 118, 18, 24, ir);
+  m.box(36, 13, 24, 92, 19, 44, signBg);
+  m.fill((x, y, z) => { const dx = x - 64, dz = z - 34, r = Math.hypot(dx, dz * 1.1); if (r > 8.5 && r < 10) return signW; if (Math.abs(dx) < 5 && dz > -4 && dz < 5 && !(dz > 0 && dz < 3 && Math.abs(dx) < 4 && Math.abs(dx) > 0.6)) return signW; if (dz > -7 && dz < -4.5 && (Math.abs(dx + 3) < 1 || Math.abs(dx - 3) < 1)) return signW; return -1; }, 50, 18, 22, 78, 19, 46);
+  for (let x = 38; x < 90; x += 4) if (x < 52 || x > 76) m.box(x, 18, 32, x + 2, 19, 36, signW);   // (the sign's lettering, a lit line either side)
+  if (flip) for (let z = 0; z < m.h; z++) for (let y = 0; y < Dd; y++) { const b = (z * Dd + y) * W; for (let x = 0; x < W / 2; x++) { const t = m.v[b + x]; m.v[b + x] = m.v[b + W - 1 - x]; m.v[b + W - 1 - x] = t; } }
+  return m;
+}
+// a hospital's ambulance bay, built to IN1-B: a flat white canopy on four posts over the drop-off, a red fascia along its
+// front with the red cross on a white panel, lights under it, hazard-striped kerbs either side and yellow bollards
+export function erCanopy(on = 1) {
+  const W = 120, Dd = 62, m = new Vox(W, Dd, 60);
+  const post = m.mat({ ramp: R('#c8ccd2'), k: 3 }), roof = m.mat({ ramp: R('#e8e8e4'), k: 3, shade: (x) => (Math.round(x) % 10 === 0 ? -0.5 : 0) });
+  const red = m.mat({ ramp: R('#c4302e'), k: 3 }), wht = m.mat({ ramp: R('#f6f4ee', 5, 3), k: 4, emi: [255, 250, 240, 30 + on * 90] }), crs = m.mat({ ramp: R('#d8302c', 5, 3), k: 4, emi: [255, 60, 50, 40 + on * 120] });
+  const haz = m.mat({ ramp: R('#e8c030'), k: 3, shade: (x, y) => ((Math.floor(x / 4) + Math.floor(y / 4)) % 2 ? -3 : 0) }), boll = m.mat({ ramp: R('#e8c030'), k: 3 });
+  const lamp = m.mat({ ramp: R('#fff6e0', 5, 3), k: 4, emi: [255, 246, 220, 60 + on * 160], flag: F_NOCAST });
+  for (const x of [6, W - 10]) for (const y of [8, Dd - 10]) { m.box(x, y, 0, x + 4, y + 4, 46, post); m.box(x - 1, y - 1, 0, x + 5, y + 5, 6, haz); }
+  const rim = m.mat({ ramp: R('#b8bcc0'), k: 3 });
+  m.box(0, 0, 46, W, Dd - 4, 50, roof); m.box(0, 0, 48, W, 2, 51, rim); m.box(0, 0, 48, 2, Dd - 4, 51, rim); m.box(W - 2, 0, 48, W, Dd - 4, 51, rim);
+  m.box(W / 2 - 3, Dd / 2 - 13, 50, W / 2 + 3, Dd / 2 + 7, 51, red); m.box(W / 2 - 10, Dd / 2 - 6, 50, W / 2 + 10, Dd / 2, 51, red);   // (the cross on its roof)
+  m.box(0, Dd - 5, 40, W, Dd - 2, 52, red);
+  m.box(W / 2 - 9, Dd - 2, 39, W / 2 + 9, Dd - 1, 53, wht);
+  m.box(W / 2 - 2, Dd - 1, 40, W / 2 + 2, Dd, 52, crs); m.box(W / 2 - 6, Dd - 1, 44, W / 2 + 6, Dd, 48, crs);
+  for (let x = 20; x < W - 16; x += 26) m.box(x, Dd / 2 - 2, 44, x + 12, Dd / 2 + 2, 46, lamp);
+  for (const x of [0, W - 4]) m.box(x, 0, 0, x + 4, Dd, 3, haz);
+  for (const x of [2, W - 6]) m.cyl('z', x + 2, Dd + 0 - 3, 0, 1.8, 0, 12, boll);
+  return m;
+}

diff --git a/docs/DEVLOG.md b/docs/DEVLOG.md
@@ -5548,3 +5548,34 @@ page's code to 721 KB of its 720 KB budget. The city tour is paused (TUTORIAL_ON
 back on (fetched at startup then, ready by the time Play is pressed); until then its calls do nothing and the tour
 counts as seen. The page is 715 KB again, with room for the next merges. `shared/tutorial.js` stays in the page: the
 phone and the map waypoints use its `districtAt`. Tests: the full suite.
+
+## 2026-10-10 · The hospital, the police station and the subway entrance, built to the B takes (IN1-B, IN2-B, SU5-B)
+The owner: "Here is SU5-B, IN2-B, and IN1-B - I think all three of these look way better for the interior for the subway, the police station, and the hospital so lets use these as the reference you use. You can still pull inspiration from the older versions on these though."
+Art only: the server's layouts (the doorways, the counter rows, the cells, the walkable floor) are as they were.
+- **Walking into a hospital** (art v2, `client/art2/game/statics.js` `makeCut` + `lobbyRoom`): white floor tile with a soft sheen;
+  the back wall in white tile with a blue band, and on it the vending machine and the water cooler, the red double doors to
+  the back under a green exit sign, the pharmacy window with its shelves under a green cross, and the lifts; a long white
+  desk over a wood front with a blue stripe, curving out in the middle, with its screens and papers; rows of blue waiting
+  chairs either side of the aisle from the doors; potted plants; a mat inside the doors and one at the desk.
+- **The police station** (`lobbyRoom`): pale stone tile in the lobby and grey block walls round the cells; the notice board,
+  the clock and the shield on the wall above the cells; a wood front desk with the officer's computer and a flag beside it;
+  blue chairs either side of the doors, the water cooler and plants; and in the officers' corner east of the cells, the
+  armory cage - a mesh front with its door, rifles racked on the back wall, vests, green ammo cases.
+- **A big walk-in drawn in sections** (the art splits a long building) used to show a wall down the middle and a break in
+  its counter at each seam: each section now knows which of the building's walls it has (`ew`, `ee`) and the full extent of
+  its unit (`fx0`, `fx1`), so the room is one open space with one counter (every walk-in kind, not just these two).
+- **The hospital's ambulance bay** (`client/art2/props-road.js` `erCanopy`, in place of a fuel-station canopy): a white
+  canopy on four posts with hazard-striped feet, a red fascia with the red cross on a white panel, a red cross on its roof,
+  lights under it, hazard-striped kerbs and yellow bollards.
+- **The subway's street entrance** (`subwayKiosk`, on the kiosk's real footprint from `shared/map.js` SUBWAY_ART, mirrored for
+  the mirrored kiosks; it replaces a 70 x 44 box that didn't cover the stairwell): dark green iron railings round the
+  stairwell with ball-topped newels at the mouth, the steps going down into the dark with a lit nosing on each, the white
+  tiled wall with its green band, the warm-lit landing at the foot (the platform below), and along the back a green frame
+  with two globe lamps and the lit sign with the train symbol. Lights at the globes, the sign and the stair foot.
+- **The classic renderer**: the HQ armory screen's painting is now the B take's armory cage (`assets/interiors.webp`, its
+  rect unchanged). The hospital's and the police lobby's floor paintings are left as they were: the B takes have people
+  painted into them, who would stand about as statues under the live staff.
+- Note: the two B files are named the other way round - `IN1-B_hospital.png` shows the police station and
+  `IN2-B_police-station.png` the hospital.
+- **Tests:** `test/art2.test.js`, `test/cells.test.js`, `test/flags.test.js`, `test/artcdn.test.js`, `test/perf.test.js`;
+  every static piece round all seven hospitals, five police stations and three subway kiosks builds (cut away and not).
